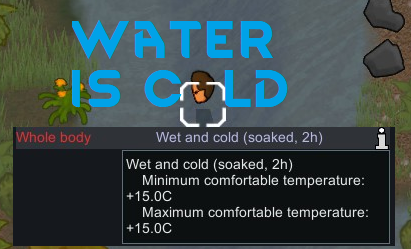
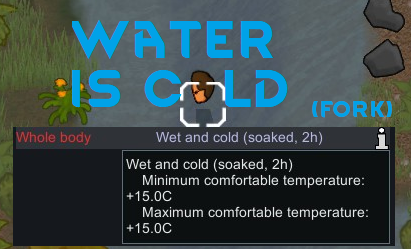
mark as a fork

Changed region(s): [[0.7591, 0.3936, 0.9635, 0.4779]]

diff --git a/Source/Mod_WaterIsCold.cs b/Source/Mod_WaterIsCold.cs
@@ -19,7 +19,7 @@ namespace WaterIsCold
         }
         public override string SettingsCategory()
         {
-            return "Water Is Cold";
+            return "Water Is Cold (fork)";
         }
 
         public override void DoSettingsWindowContents(Rect inRect)
